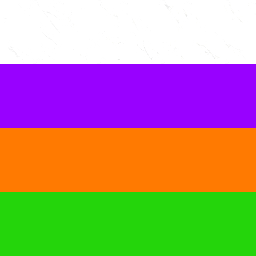
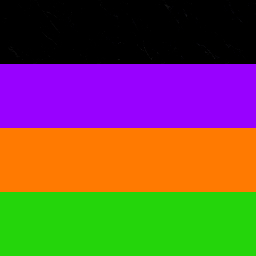
tweaking lights

Changed region(s): [[0.0, 0.0, 1.0, 0.25]]

diff --git a/core/game.go b/core/game.go
@@ -41,12 +41,6 @@ func NewGame() *Game {
 }
 
 func (g *Game) Update() {
-	env := &agents.Env{
-		Map:           g.Level,
-		Goal:          level.GoalPosition,
-		LastHeard:     g.Player.Position,
-		TimeRemaining: uint64(g.TimeRemaining()),
-	}
 	// Player
 	g.Player.Update(nil)
 	pxz := geom.Vec2{
@@ -58,6 +52,10 @@ func (g *Game) Update() {
 		Y: 0,
 		Z: pxz.Y,
 	})
+	// Record last heard if player is noisy
+	if g.Player.GetHeard() {
+		g.lastHeard = g.Player.GetPosition()
+	}
 	// Check if tasing and if it hits
 	if g.Player.HasAbility(agents.AbilityTasing) {
 		tased := g.Level.CastRay(g.Player.Position, g.Agent.GetPosition(), agents.TasingRadius)
@@ -69,6 +67,12 @@ func (g *Game) Update() {
 	}
 
 	// Agent
+	env := &agents.Env{
+		Map:           g.Level,
+		Goal:          level.GoalPosition,
+		LastHeard:     g.lastHeard,
+		TimeRemaining: uint64(g.TimeRemaining()),
+	}
 	g.Agent.Update(env)
 	intent := g.Agent.GetIntent()
 	g.ResolveCollisions(g.Agent, geom.Vec3{

diff --git a/graphics/level.go b/graphics/level.go
@@ -10,10 +10,10 @@ var (
 	AmbientColorsByLevel = [][]float32{
 		0: {
 			1, 1, 1,
-			0.5, 0, 1,
-			1, 0, 0.5,
-			0.5, 0, 1,
-			1, 0, 0.5,
+			0.5, 0.5, 0.75,
+			0.5, 0.5, 0.75,
+			0.5, 0.5, 0.75,
+			0.5, 0.5, 0.75,
 			1, 1, 1,
 		},
 	}
